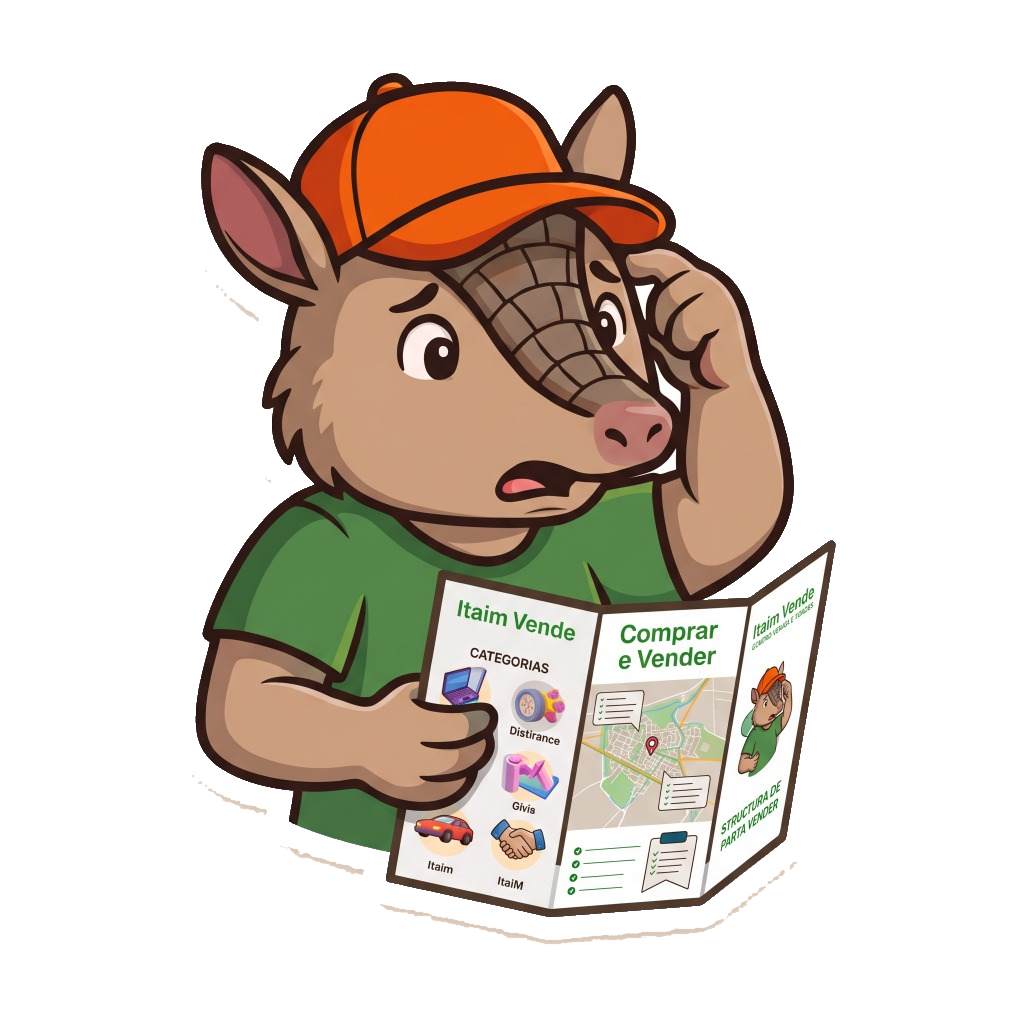
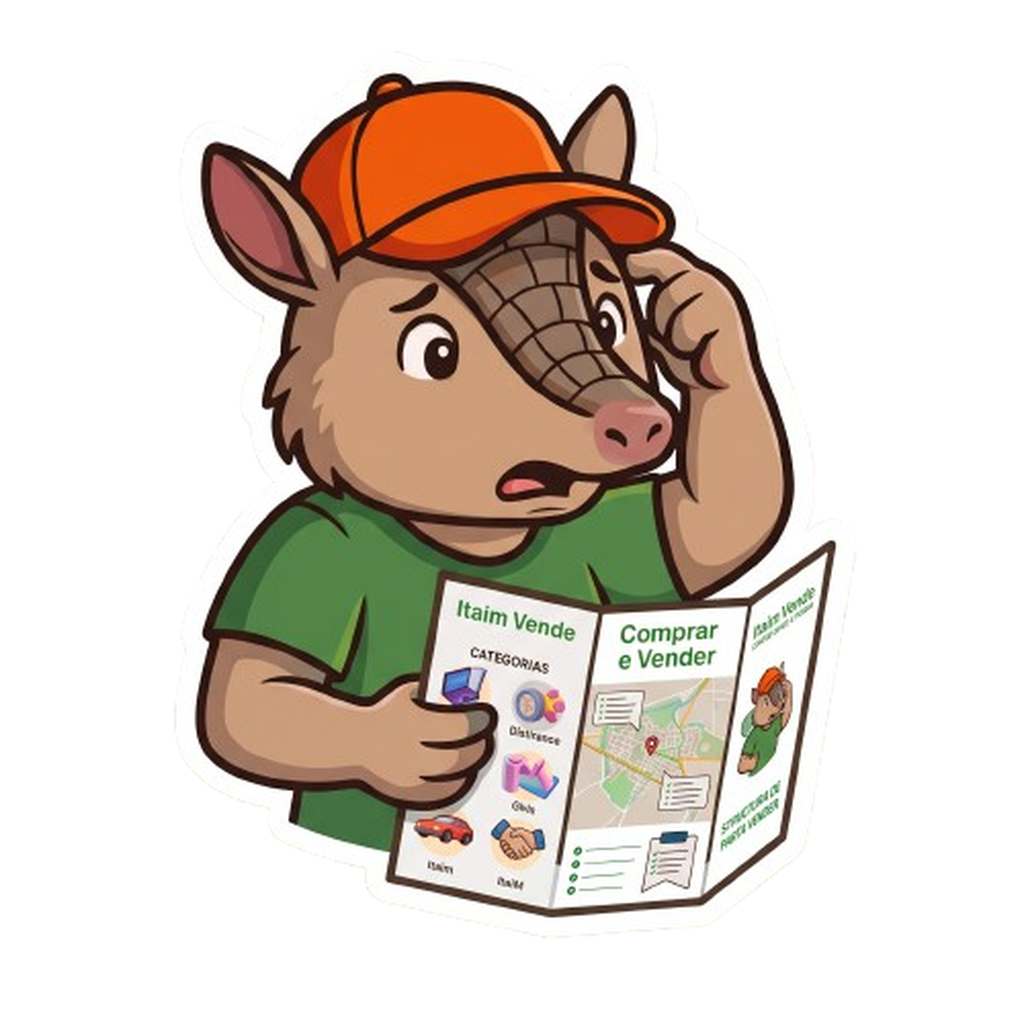
ajuste design mascote 404

diff --git a/frontend/404.html b/frontend/404.html
@@ -245,22 +245,24 @@
             width: 82%;
             height: 82%;
             border-radius: 50%;
-            background: radial-gradient(circle, rgba(254, 236, 177, 0.85) 0%, rgba(254, 243, 199, 0.5) 50%, rgba(254, 249, 195, 0) 72%);
+            background: radial-gradient(circle, rgba(254, 236, 177, 0.4) 0%, rgba(254, 243, 199, 0.18) 48%, rgba(254, 249, 195, 0) 70%);
             z-index: 1;
-            filter: blur(16px);
+            filter: blur(20px);
             pointer-events: none;
         }
 
+        /* Iluminação traseira sutil e ambiente no Modo Escuro (sem foco esbranquiçado intenso) */
         [data-theme="dark"] .halo-mascote,
         body.dark-mode .halo-mascote {
             position: absolute;
             width: 86%;
             height: 86%;
             border-radius: 50%;
-            background: radial-gradient(circle, rgba(254, 236, 177, 0.85) 0%, rgba(254, 243, 199, 0.5) 50%, rgba(254, 249, 195, 0) 72%);
+            background: radial-gradient(circle, rgba(254, 243, 199, 0.10) 0%, rgba(254, 236, 177, 0.04) 45%, rgba(15, 23, 42, 0) 70%);
             z-index: 1;
-            filter: blur(14px);
+            filter: blur(28px);
             pointer-events: none;
+            opacity: 0.75;
         }
 
         .img-mascote-404 {
@@ -273,6 +275,11 @@
             user-select: none;
             filter: drop-shadow(0 14px 28px rgba(0, 0, 0, 0.1));
             transition: transform 0.3s ease;
+        }
+
+        [data-theme="dark"] .img-mascote-404,
+        body.dark-mode .img-mascote-404 {
+            filter: drop-shadow(0 12px 28px rgba(0, 0, 0, 0.35));
         }
 
         .img-mascote-404:hover {
@@ -702,8 +709,8 @@
             <!-- Coluna da Direita: Mascote com Mapa Dobrado e Halo -->
             <div class="pagina-404-ilustracao">
                 <div class="halo-mascote" aria-hidden="true"></div>
-                <img src="/assets/logos/mascote-404.png?v=5" alt="Mascote Itaim Vende confuso lendo o mapa"
-                    class="img-mascote-404" onerror="this.onerror=null; this.src='assets/logos/mascote-404.png?v=5';">
+                <img src="/assets/logos/mascote-404.png?v=7" alt="Mascote Itaim Vende confuso lendo o mapa"
+                    class="img-mascote-404" onerror="this.onerror=null; this.src='assets/logos/mascote-404.png?v=7';">
             </div>
         </div>
     </main>
@@ -757,7 +764,7 @@
                 const linksConfig = document.querySelectorAll('a[href="/configuracoes"]');
                 linksConfig.forEach(a => a.href = 'pages/perfil/configuracoes.html');
             }
-       </script>
+    </script>
 </body>
 
 </html>
